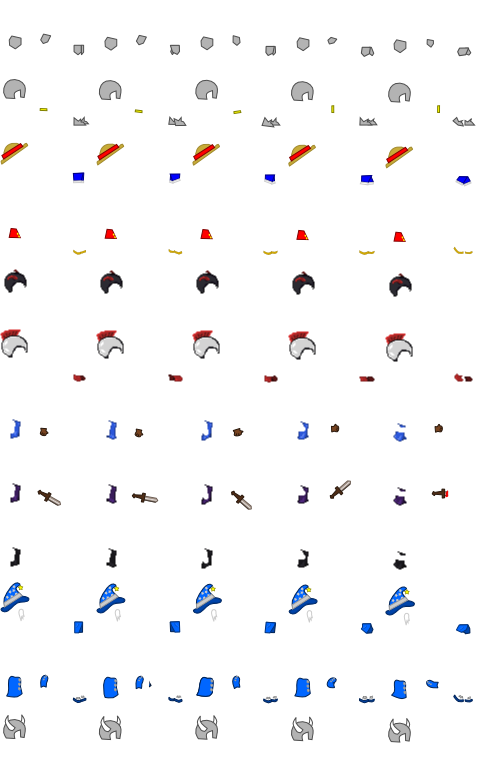
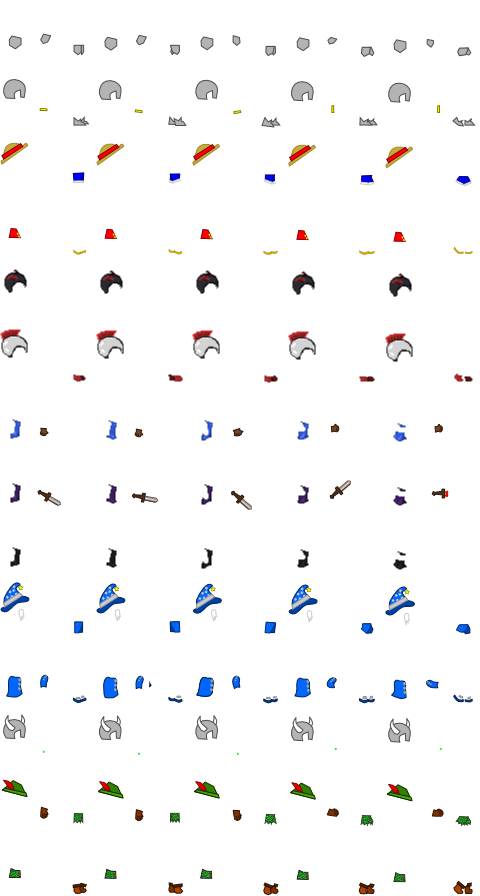
Added a peter pan/robin hood style light armor/green leather armor set into graphics and code.

diff --git a/armor.js b/armor.js
@@ -23,6 +23,12 @@ var equipmentSources = {
     'wizardSleeves': equipmentSource(arm, 10),
     'wizardPants': equipmentSource(legs, 9),
     'wizardSandals': equipmentSource(feet, 10),
+    // Peter Pan
+    'featherCap': equipmentSource(head, 12),
+    'leatherVest': equipmentSource(body, 13),
+    'leatherLongGloves': equipmentSource(arm, 12),
+    'leatherPants': equipmentSource(legs, 12),
+    'leatherBoots': equipmentSource(feet, 13),
     // Robes
     'blueRobe': equipmentSource(body, 6),
     'purpleRobe': equipmentSource(body, 7),
@@ -56,18 +62,18 @@ addItem(69, {'slot': 'head', 'type': 'heavyArmor', 'name': 'Orichalcum Great Hel
 
 //Light Helmets gives armor and evasion
 //addItem(1, {'slot': 'head', 'type': 'lightArmor', 'name': 'Rotten Bucket', 'bonuses': {'+armor': 1, '+evasion': 3}, 'offset': 10, icon: 'featherHat'});
-addItem(4, {'slot': 'head', 'type': 'lightArmor', 'name': 'Leather Cap', 'bonuses': {'+armor': 7, '+evasion': 13}, 'offset': 10, icon: 'featherHat'});
-addItem(8, {'slot': 'head', 'type': 'lightArmor', 'name': 'Hide Cap', 'bonuses': {'+armor': 13, '+evasion': 23}, 'offset': 10, icon: 'featherHat'});
-addItem(13, {'slot': 'head', 'type': 'lightArmor', 'name': 'Leather Helmet', 'bonuses': {'+armor': 19, '+evasion': 33}, 'offset': 10, icon: 'featherHat'});
-addItem(18, {'slot': 'head', 'type': 'lightArmor', 'name': 'Studded Helmet', 'bonuses': {'+armor': 25, '+evasion': 43}, 'offset': 10, icon: 'featherHat'});
-addItem(23, {'slot': 'head', 'type': 'lightArmor', 'name': 'Hide Helmet', 'bonuses': {'+armor': 31, '+evasion': 53}, 'offset': 10, icon: 'featherHat'});
-addItem(28, {'slot': 'head', 'type': 'lightArmor', 'name': 'Shell Helmet', 'bonuses': {'+armor': 37, '+evasion': 63}, 'offset': 10, icon: 'featherHat'});
-addItem(33, {'slot': 'head', 'type': 'lightArmor', 'name': 'Leather Hood', 'bonuses': {'+armor': 43, '+evasion': 73}, 'offset': 10, icon: 'featherHat'});
-addItem(38, {'slot': 'head', 'type': 'lightArmor', 'name': 'Horned Helmet', 'bonuses': {'+armor': 49, '+evasion': 83}, 'offset': 10, icon: 'featherHat'});
-addItem(43, {'slot': 'head', 'type': 'lightArmor', 'name': 'Scale Helmet', 'bonuses': {'+armor': 55, '+evasion': 93}, 'offset': 10, icon: 'featherHat'});
-addItem(48, {'slot': 'head', 'type': 'lightArmor', 'name': 'Composite Helmet', 'bonuses': {'+armor': 61, '+evasion': 103}, 'offset': 10, icon: 'featherHat'});
-addItem(58, {'slot': 'head', 'type': 'lightArmor', 'name': 'Runed Helmet', 'bonuses': {'+armor': 70, '+evasion': 110, '+maxHealth': 35, '+block': 5, '+magicBlock': 5}, 'offset': 10, icon: 'featherHat'});
-addItem(68, {'slot': 'head', 'type': 'lightArmor', 'name': 'Dragon Helmet', 'bonuses': {'+armor': 80, '+evasion': 120, '+maxHealth': 100, '+block': 10, '+magicBlock': 10}, 'offset': 10, icon: 'featherHat'});
+addItem(4, {'slot': 'head', 'type': 'lightArmor', 'name': 'Leather Cap', 'bonuses': {'+armor': 7, '+evasion': 13}, 'source': equipmentSources.featherCap, icon: 'featherHat'});
+addItem(8, {'slot': 'head', 'type': 'lightArmor', 'name': 'Hide Cap', 'bonuses': {'+armor': 13, '+evasion': 23}, 'source': equipmentSources.featherCap, icon: 'featherHat'});
+addItem(13, {'slot': 'head', 'type': 'lightArmor', 'name': 'Leather Helmet', 'bonuses': {'+armor': 19, '+evasion': 33}, 'source': equipmentSources.featherCap, icon: 'featherHat'});
+addItem(18, {'slot': 'head', 'type': 'lightArmor', 'name': 'Studded Helmet', 'bonuses': {'+armor': 25, '+evasion': 43}, 'source': equipmentSources.featherCap, icon: 'featherHat'});
+addItem(23, {'slot': 'head', 'type': 'lightArmor', 'name': 'Hide Helmet', 'bonuses': {'+armor': 31, '+evasion': 53}, 'source': equipmentSources.featherCap, icon: 'featherHat'});
+addItem(28, {'slot': 'head', 'type': 'lightArmor', 'name': 'Shell Helmet', 'bonuses': {'+armor': 37, '+evasion': 63}, 'source': equipmentSources.featherCap, icon: 'featherHat'});
+addItem(33, {'slot': 'head', 'type': 'lightArmor', 'name': 'Leather Hood', 'bonuses': {'+armor': 43, '+evasion': 73}, 'source': equipmentSources.featherCap, icon: 'featherHat'});
+addItem(38, {'slot': 'head', 'type': 'lightArmor', 'name': 'Horned Helmet', 'bonuses': {'+armor': 49, '+evasion': 83}, 'source': equipmentSources.featherCap, icon: 'featherHat'});
+addItem(43, {'slot': 'head', 'type': 'lightArmor', 'name': 'Scale Helmet', 'bonuses': {'+armor': 55, '+evasion': 93}, 'source': equipmentSources.featherCap, icon: 'featherHat'});
+addItem(48, {'slot': 'head', 'type': 'lightArmor', 'name': 'Composite Helmet', 'bonuses': {'+armor': 61, '+evasion': 103}, 'source': equipmentSources.featherCap, icon: 'featherHat'});
+addItem(58, {'slot': 'head', 'type': 'lightArmor', 'name': 'Runed Helmet', 'bonuses': {'+armor': 70, '+evasion': 110, '+maxHealth': 35, '+block': 5, '+magicBlock': 5}, 'source': equipmentSources.featherCap, icon: 'featherHat'});
+addItem(68, {'slot': 'head', 'type': 'lightArmor', 'name': 'Dragon Helmet', 'bonuses': {'+armor': 80, '+evasion': 120, '+maxHealth': 100, '+block': 10, '+magicBlock': 10}, 'source': equipmentSources.featherCap, icon: 'featherHat'});
 
 //Hoods gives block and magic block
 addItem(1, {'slot': 'head', 'type': 'clothArmor', 'name': 'Straw Hat', 'bonuses': {'+block': 2, '+magicBlock': 1}, 'source': equipmentSources.strawHat, 'hideHair': true, icon: 'mageHat'});
@@ -100,19 +106,19 @@ addItem(63, {'slot': 'body', 'type': 'heavyArmor', 'name': 'Adamantium Plate', '
 addItem(73, {'slot': 'body', 'type': 'heavyArmor', 'name': 'Orichalcum Plate', 'bonuses': {'+armor': 120, '+maxHealth': 700, '+evasion': 20, '+block': 20, '+magicBlock': 20}, 'source': equipmentSources.heavyArmor, icon: 'heavyArmor'});
 
 //Light Armor gives armor and evasion
-addItem(2, {'slot': 'body', 'type': 'lightArmor', 'name': 'Cloth Tunic', 'bonuses': {'+armor': 2, '+evasion': 4}, 'offset': 3, icon: 'lightArmor'});
-addItem(7, {'slot': 'body', 'type': 'lightArmor', 'name': 'Leather Tunic', 'bonuses': {'+armor': 7, '+evasion': 19}, 'offset': 3, icon: 'lightArmor'});
-addItem(12, {'slot': 'body', 'type': 'lightArmor', 'name': 'Hide Tunic', 'bonuses': {'+armor': 12, '+evasion': 34}, 'offset': 3, icon: 'lightArmor'});
-addItem(17, {'slot': 'body', 'type': 'lightArmor', 'name': 'Leather Armor', 'bonuses': {'+armor': 17, '+evasion': 49}, 'offset': 3, icon: 'lightArmor'});
-addItem(22, {'slot': 'body', 'type': 'lightArmor', 'name': 'Studded Armor', 'bonuses': {'+armor': 22, '+evasion': 64}, 'offset': 3, icon: 'lightArmor'});
-addItem(27, {'slot': 'body', 'type': 'lightArmor', 'name': 'Hide Armor', 'bonuses': {'+armor': 27, '+evasion': 79}, 'offset': 3, icon: 'lightArmor'});
-addItem(32, {'slot': 'body', 'type': 'lightArmor', 'name': 'Carapace Armor', 'bonuses': {'+armor': 32, '+evasion': 94}, 'offset': 3, icon: 'lightArmor'});
-addItem(37, {'slot': 'body', 'type': 'lightArmor', 'name': 'Treated Armor', 'bonuses': {'+armor': 37, '+evasion': 109}, 'offset': 3, icon: 'lightArmor'});
-addItem(42, {'slot': 'body', 'type': 'lightArmor', 'name': 'Splint Armor', 'bonuses': {'+armor': 42, '+evasion': 124}, 'offset': 3, icon: 'lightArmor'});
-addItem(47, {'slot': 'body', 'type': 'lightArmor', 'name': 'Scale Armor', 'bonuses': {'+armor': 47, '+evasion': 139}, 'offset': 3, icon: 'lightArmor'});
-addItem(52, {'slot': 'body', 'type': 'lightArmor', 'name': 'Composite Armor', 'bonuses': {'+armor': 52, '+evasion': 154}, 'offset': 3, icon: 'lightArmor'});
-addItem(62, {'slot': 'body', 'type': 'lightArmor', 'name': 'Runed Armor', 'bonuses': {'+armor': 55, '+evasion': 155, '+maxHealth': 60, '+block': 10, '+magicBlock': 10}, 'offset': 3, icon: 'lightArmor'});
-addItem(72, {'slot': 'body', 'type': 'lightArmor', 'name': 'Dragon Armor', 'bonuses': {'+armor': 70, '+evasion': 170, '+maxHealth': 200, '+block': 20, '+magicBlock': 20}, 'offset': 3, icon: 'lightArmor'});
+addItem(2, {'slot': 'body', 'type': 'lightArmor', 'name': 'Cloth Tunic', 'bonuses': {'+armor': 2, '+evasion': 4}, 'source': equipmentSources.leatherVest, icon: 'lightArmor'});
+addItem(7, {'slot': 'body', 'type': 'lightArmor', 'name': 'Leather Tunic', 'bonuses': {'+armor': 7, '+evasion': 19}, 'source': equipmentSources.leatherVest, icon: 'lightArmor'});
+addItem(12, {'slot': 'body', 'type': 'lightArmor', 'name': 'Hide Tunic', 'bonuses': {'+armor': 12, '+evasion': 34}, 'source': equipmentSources.leatherVest, icon: 'lightArmor'});
+addItem(17, {'slot': 'body', 'type': 'lightArmor', 'name': 'Leather Armor', 'bonuses': {'+armor': 17, '+evasion': 49}, 'source': equipmentSources.leatherVest, icon: 'lightArmor'});
+addItem(22, {'slot': 'body', 'type': 'lightArmor', 'name': 'Studded Armor', 'bonuses': {'+armor': 22, '+evasion': 64}, 'source': equipmentSources.leatherVest, icon: 'lightArmor'});
+addItem(27, {'slot': 'body', 'type': 'lightArmor', 'name': 'Hide Armor', 'bonuses': {'+armor': 27, '+evasion': 79}, 'source': equipmentSources.leatherVest, icon: 'lightArmor'});
+addItem(32, {'slot': 'body', 'type': 'lightArmor', 'name': 'Carapace Armor', 'bonuses': {'+armor': 32, '+evasion': 94}, 'source': equipmentSources.leatherVest, icon: 'lightArmor'});
+addItem(37, {'slot': 'body', 'type': 'lightArmor', 'name': 'Treated Armor', 'bonuses': {'+armor': 37, '+evasion': 109}, 'source': equipmentSources.leatherVest, icon: 'lightArmor'});
+addItem(42, {'slot': 'body', 'type': 'lightArmor', 'name': 'Splint Armor', 'bonuses': {'+armor': 42, '+evasion': 124}, 'source': equipmentSources.leatherVest, icon: 'lightArmor'});
+addItem(47, {'slot': 'body', 'type': 'lightArmor', 'name': 'Scale Armor', 'bonuses': {'+armor': 47, '+evasion': 139}, 'source': equipmentSources.leatherVest, icon: 'lightArmor'});
+addItem(52, {'slot': 'body', 'type': 'lightArmor', 'name': 'Composite Armor', 'bonuses': {'+armor': 52, '+evasion': 154}, 'source': equipmentSources.leatherVest, icon: 'lightArmor'});
+addItem(62, {'slot': 'body', 'type': 'lightArmor', 'name': 'Runed Armor', 'bonuses': {'+armor': 55, '+evasion': 155, '+maxHealth': 60, '+block': 10, '+magicBlock': 10}, 'source': equipmentSources.leatherVest, icon: 'lightArmor'});
+addItem(72, {'slot': 'body', 'type': 'lightArmor', 'name': 'Dragon Armor', 'bonuses': {'+armor': 70, '+evasion': 170, '+maxHealth': 200, '+block': 20, '+magicBlock': 20}, 'source': equipmentSources.leatherVest, icon: 'lightArmor'});
 
 // Cloth Armor gives armor, block and magic block
 addItem(1, {'slot': 'body', 'type': 'clothArmor', 'name': 'Wool Shirt', 'bonuses': {'+armor': 2, '+block': 4, '+magicBlock': 2}, 'source': equipmentSources.vest, icon: 'clothArmor'});
@@ -146,18 +152,18 @@ addItem(70, {'slot': 'arms', 'type': 'heavyArmor', 'name': 'Orichalcum Vambracer
 
 //Bracers gives armor and evasion
 //addItem(1, {'slot': 'arms', 'type': 'lightArmor', 'name': 'Rotting Bracelets', 'bonuses': {'+armor': 1, '+evasion': 3}, icon: 'bracers'});
-addItem(4, {'slot': 'arms', 'type': 'lightArmor', 'name': 'Leather Bracelets', 'bonuses': {'+armor': 7, '+evasion': 13}, icon: 'bracers'});
-addItem(9, {'slot': 'arms', 'type': 'lightArmor', 'name': 'Hide Bracelets', 'bonuses': {'+armor': 13, '+evasion': 23}, icon: 'bracers'});
-addItem(14, {'slot': 'arms', 'type': 'lightArmor', 'name': 'Leather Bracers', 'bonuses': {'+armor': 19, '+evasion': 33}, icon: 'bracers'});
-addItem(19, {'slot': 'arms', 'type': 'lightArmor', 'name': 'Studded Bracers', 'bonuses': {'+armor': 25, '+evasion': 43}, icon: 'bracers'});
-addItem(24, {'slot': 'arms', 'type': 'lightArmor', 'name': 'Hide Bracers', 'bonuses': {'+armor': 31, '+evasion': 53}, icon: 'bracers'});
-addItem(29, {'slot': 'arms', 'type': 'lightArmor', 'name': 'Carapace Bracers', 'bonuses': {'+armor': 37, '+evasion': 63}, icon: 'bracers'});
-addItem(34, {'slot': 'arms', 'type': 'lightArmor', 'name': 'Padded Bracers', 'bonuses': {'+armor': 43, '+evasion': 73}, icon: 'bracers'});
-addItem(39, {'slot': 'arms', 'type': 'lightArmor', 'name': 'Plated Bracers', 'bonuses': {'+armor': 49, '+evasion': 83}, icon: 'bracers'});
-addItem(44, {'slot': 'arms', 'type': 'lightArmor', 'name': 'Scale Bracers', 'bonuses': {'+armor': 55, '+evasion': 93}, icon: 'bracers'});
-addItem(49, {'slot': 'arms', 'type': 'lightArmor', 'name': 'Composite Bracers', 'bonuses': {'+armor': 61, '+evasion': 103}, icon: 'bracers'});
-addItem(59, {'slot': 'arms', 'type': 'lightArmor', 'name': 'Runed Bracers', 'bonuses': {'+armor': 70, '+evasion': 110, '+maxHealth': 35, '+block': 5, '+magicBlock': 5}, icon: 'bracers'});
-addItem(69, {'slot': 'arms', 'type': 'lightArmor', 'name': 'Dragon Bracers', 'bonuses': {'+armor': 80, '+evasion': 120, '+maxHealth': 100, '+block': 10, '+magicBlock': 10}, icon: 'bracers'});
+addItem(4, {'slot': 'arms', 'type': 'lightArmor', 'name': 'Leather Bracelets', 'bonuses': {'+armor': 7, '+evasion': 13}, 'source': equipmentSources.leatherLongGloves, icon: 'bracers'});
+addItem(9, {'slot': 'arms', 'type': 'lightArmor', 'name': 'Hide Bracelets', 'bonuses': {'+armor': 13, '+evasion': 23}, 'source': equipmentSources.leatherLongGloves, icon: 'bracers'});
+addItem(14, {'slot': 'arms', 'type': 'lightArmor', 'name': 'Leather Bracers', 'bonuses': {'+armor': 19, '+evasion': 33}, 'source': equipmentSources.leatherLongGloves, icon: 'bracers'});
+addItem(19, {'slot': 'arms', 'type': 'lightArmor', 'name': 'Studded Bracers', 'bonuses': {'+armor': 25, '+evasion': 43}, 'source': equipmentSources.leatherLongGloves, icon: 'bracers'});
+addItem(24, {'slot': 'arms', 'type': 'lightArmor', 'name': 'Hide Bracers', 'bonuses': {'+armor': 31, '+evasion': 53}, 'source': equipmentSources.leatherLongGloves, icon: 'bracers'});
+addItem(29, {'slot': 'arms', 'type': 'lightArmor', 'name': 'Carapace Bracers', 'bonuses': {'+armor': 37, '+evasion': 63}, 'source': equipmentSources.leatherLongGloves, icon: 'bracers'});
+addItem(34, {'slot': 'arms', 'type': 'lightArmor', 'name': 'Padded Bracers', 'bonuses': {'+armor': 43, '+evasion': 73}, 'source': equipmentSources.leatherLongGloves, icon: 'bracers'});
+addItem(39, {'slot': 'arms', 'type': 'lightArmor', 'name': 'Plated Bracers', 'bonuses': {'+armor': 49, '+evasion': 83}, 'source': equipmentSources.leatherLongGloves, icon: 'bracers'});
+addItem(44, {'slot': 'arms', 'type': 'lightArmor', 'name': 'Scale Bracers', 'bonuses': {'+armor': 55, '+evasion': 93}, 'source': equipmentSources.leatherLongGloves, icon: 'bracers'});
+addItem(49, {'slot': 'arms', 'type': 'lightArmor', 'name': 'Composite Bracers', 'bonuses': {'+armor': 61, '+evasion': 103}, 'source': equipmentSources.leatherLongGloves, icon: 'bracers'});
+addItem(59, {'slot': 'arms', 'type': 'lightArmor', 'name': 'Runed Bracers', 'bonuses': {'+armor': 70, '+evasion': 110, '+maxHealth': 35, '+block': 5, '+magicBlock': 5}, 'source': equipmentSources.leatherLongGloves, icon: 'bracers'});
+addItem(69, {'slot': 'arms', 'type': 'lightArmor', 'name': 'Dragon Bracers', 'bonuses': {'+armor': 80, '+evasion': 120, '+maxHealth': 100, '+block': 10, '+magicBlock': 10}, 'source': equipmentSources.leatherLongGloves, icon: 'bracers'});
 
 //Gloves gives block and magic block
 addItem(1, {'slot': 'arms', 'type': 'clothArmor', 'name': 'Torn Mittens', 'bonuses': {'+block': 2, '+magicBlock': 1}, 'source': equipmentSources.leatherGloves, icon: 'gloves'});
@@ -191,18 +197,18 @@ addItem(71, {'slot': 'legs', 'type': 'heavyArmor', 'name': 'Orichalcum Greaves',
 
 //Pants gives evasion and armor
 //addItem(1, {'slot': 'legs', 'type': 'lightArmor', 'name': 'Worn Kilt', 'bonuses': {'+armor': 2, '+evasion': 3}, icon: 'pants'});
-addItem(5, {'slot': 'legs', 'type': 'lightArmor', 'name': 'Leather Kilt', 'bonuses': {'+armor': 10, '+evasion': 13}, icon: 'pants'});
-addItem(10, {'slot': 'legs', 'type': 'lightArmor', 'name': 'Hide Kilt', 'bonuses': {'+armor': 18, '+evasion': 23}, icon: 'pants'});
-addItem(15, {'slot': 'legs', 'type': 'lightArmor', 'name': 'Leather Pants', 'bonuses': {'+armor': 26, '+evasion': 33}, icon: 'pants'});
-addItem(20, {'slot': 'legs', 'type': 'lightArmor', 'name': 'Studded Pants', 'bonuses': {'+armor': 34, '+evasion': 43}, icon: 'pants'});
-addItem(25, {'slot': 'legs', 'type': 'lightArmor', 'name': 'Hide Pants', 'bonuses': {'+armor': 42, '+evasion': 53}, icon: 'pants'});
-addItem(30, {'slot': 'legs', 'type': 'lightArmor', 'name': 'Carapace Pants', 'bonuses': {'+armor': 50, '+evasion': 63}, icon: 'pants'});
-addItem(35, {'slot': 'legs', 'type': 'lightArmor', 'name': 'Padded Pants', 'bonuses': {'+armor': 58, '+evasion': 73}, icon: 'pants'});
-addItem(40, {'slot': 'legs', 'type': 'lightArmor', 'name': 'Plated Pants', 'bonuses': {'+armor': 66, '+evasion': 83}, icon: 'pants'});
-addItem(45, {'slot': 'legs', 'type': 'lightArmor', 'name': 'Scale Pants', 'bonuses': {'+armor': 74, '+evasion': 93}, icon: 'pants'});
+addItem(5, {'slot': 'legs', 'type': 'lightArmor', 'name': 'Leather Kilt', 'bonuses': {'+armor': 10, '+evasion': 13}, 'source': equipmentSources.leatherPants, icon: 'pants'});
+addItem(10, {'slot': 'legs', 'type': 'lightArmor', 'name': 'Hide Kilt', 'bonuses': {'+armor': 18, '+evasion': 23}, 'source': equipmentSources.leatherPants, icon: 'pants'});
+addItem(15, {'slot': 'legs', 'type': 'lightArmor', 'name': 'Leather Pants', 'bonuses': {'+armor': 26, '+evasion': 33}, 'source': equipmentSources.leatherPants, icon: 'pants'});
+addItem(20, {'slot': 'legs', 'type': 'lightArmor', 'name': 'Studded Pants', 'bonuses': {'+armor': 34, '+evasion': 43}, 'source': equipmentSources.leatherPants, icon: 'pants'});
+addItem(25, {'slot': 'legs', 'type': 'lightArmor', 'name': 'Hide Pants', 'bonuses': {'+armor': 42, '+evasion': 53}, 'source': equipmentSources.leatherPants, icon: 'pants'});
+addItem(30, {'slot': 'legs', 'type': 'lightArmor', 'name': 'Carapace Pants', 'bonuses': {'+armor': 50, '+evasion': 63}, 'source': equipmentSources.leatherPants, icon: 'pants'});
+addItem(35, {'slot': 'legs', 'type': 'lightArmor', 'name': 'Padded Pants', 'bonuses': {'+armor': 58, '+evasion': 73}, 'source': equipmentSources.leatherPants, icon: 'pants'});
+addItem(40, {'slot': 'legs', 'type': 'lightArmor', 'name': 'Plated Pants', 'bonuses': {'+armor': 66, '+evasion': 83}, 'source': equipmentSources.leatherPants, icon: 'pants'});
+addItem(45, {'slot': 'legs', 'type': 'lightArmor', 'name': 'Scale Pants', 'bonuses': {'+armor': 74, '+evasion': 93}, 'source': equipmentSources.leatherPants, icon: 'pants'});
 addItem(50, {'slot': 'legs', 'type': 'lightArmor', 'name': 'Composite Pants', 'bonuses': {'+armor': 82, '+evasion': 103}, icon: 'pants'});
-addItem(60, {'slot': 'legs', 'type': 'lightArmor', 'name': 'Runed Pants', 'bonuses': {'+armor': 85, '+evasion': 115, '+maxHealth': 60, '+block': 10, '+magicBlock': 10}, icon: 'pants'});
-addItem(70, {'slot': 'legs', 'type': 'lightArmor', 'name': 'Dragon Pants', 'bonuses': {'+armor': 90, '+evasion': 120, '+maxHealth': 100, '+block': 20, '+magicBlock': 20}, icon: 'pants'});
+addItem(60, {'slot': 'legs', 'type': 'lightArmor', 'name': 'Runed Pants', 'bonuses': {'+armor': 85, '+evasion': 115, '+maxHealth': 60, '+block': 10, '+magicBlock': 10}, 'source': equipmentSources.leatherPants, icon: 'pants'});
+addItem(70, {'slot': 'legs', 'type': 'lightArmor', 'name': 'Dragon Pants', 'bonuses': {'+armor': 90, '+evasion': 120, '+maxHealth': 100, '+block': 20, '+magicBlock': 20}, 'source': equipmentSources.leatherPants, icon: 'pants'});
 
 //Tights gives block and magic block
 addItem(1, {'slot': 'legs', 'type': 'clothArmor', 'name': 'Tattered Shorts', 'bonuses': {'+block': 3, '+magicBlock': 1}, source: equipmentSources.shorts, icon: 'tights'});
@@ -236,12 +242,12 @@ addItem(72, {'slot': 'feet', 'type': 'heavyArmor', 'name': 'Orichalcum Sabatons'
 
 //Boots gives armor and evasion
 //addItem(1, {'slot': 'feet', 'type': 'lightArmor', 'name': 'Worn Shoes', 'bonuses': {'+armor': 1, '+evasion': 2, '-speed': 25}, 'offset': 8, icon: 'boots'});
-addItem(6, {'slot': 'feet', 'type': 'lightArmor', 'name': 'Leather Shoes', 'bonuses': {'+armor': 6, '+evasion': 10, '-speed': 25}, 'source': equipmentSources.redShoes, icon: 'boots'});
-addItem(11, {'slot': 'feet', 'type': 'lightArmor', 'name': 'Hide Shoes', 'bonuses': {'+armor': 11, '+evasion': 18, '-speed': 25}, 'source': equipmentSources.redShoes, icon: 'boots'});
-addItem(16, {'slot': 'feet', 'type': 'lightArmor', 'name': 'Leather Boots', 'bonuses': {'+armor': 16, '+evasion': 26, '-speed': 25}, 'source': equipmentSources.redShoes, icon: 'boots'});
-addItem(21, {'slot': 'feet', 'type': 'lightArmor', 'name': 'Studded Boots', 'bonuses': {'+armor': 21, '+evasion': 34, '-speed': 25}, 'source': equipmentSources.redShoes, icon: 'boots'});
-addItem(26, {'slot': 'feet', 'type': 'lightArmor', 'name': 'Hide Boots', 'bonuses': {'+armor': 26, '+evasion': 42, '-speed': 25}, 'source': equipmentSources.redShoes, icon: 'boots'});
-addItem(31, {'slot': 'feet', 'type': 'lightArmor', 'name': 'Carapace Boots', 'bonuses': {'+armor': 31, '+evasion': 50, '-speed': 25}, 'source': equipmentSources.redShoes, icon: 'boots'});
+addItem(6, {'slot': 'feet', 'type': 'lightArmor', 'name': 'Leather Shoes', 'bonuses': {'+armor': 6, '+evasion': 10, '-speed': 25}, 'source': equipmentSources.leatherBoots, icon: 'boots'});
+addItem(11, {'slot': 'feet', 'type': 'lightArmor', 'name': 'Hide Shoes', 'bonuses': {'+armor': 11, '+evasion': 18, '-speed': 25}, 'source': equipmentSources.leatherBoots, icon: 'boots'});
+addItem(16, {'slot': 'feet', 'type': 'lightArmor', 'name': 'Leather Boots', 'bonuses': {'+armor': 16, '+evasion': 26, '-speed': 25}, 'source': equipmentSources.leatherBoots, icon: 'boots'});
+addItem(21, {'slot': 'feet', 'type': 'lightArmor', 'name': 'Studded Boots', 'bonuses': {'+armor': 21, '+evasion': 34, '-speed': 25}, 'source': equipmentSources.leatherBoots, icon: 'boots'});
+addItem(26, {'slot': 'feet', 'type': 'lightArmor', 'name': 'Hide Boots', 'bonuses': {'+armor': 26, '+evasion': 42, '-speed': 25}, 'source': equipmentSources.leatherBoots, icon: 'boots'});
+addItem(31, {'slot': 'feet', 'type': 'lightArmor', 'name': 'Carapace Boots', 'bonuses': {'+armor': 31, '+evasion': 50, '-speed': 25}, 'source': equipmentSources.leatherBoots, icon: 'boots'});
 addItem(36, {'slot': 'feet', 'type': 'lightArmor', 'name': 'Padded Boots', 'bonuses': {'+armor': 36, '+evasion': 58, '-speed': 25}, 'source': equipmentSources.redShoes, icon: 'boots'});
 addItem(41, {'slot': 'feet', 'type': 'lightArmor', 'name': 'Plated Boots', 'bonuses': {'+armor': 41, '+evasion': 66, '-speed': 25}, 'source': equipmentSources.redShoes, icon: 'boots'});
 addItem(46, {'slot': 'feet', 'type': 'lightArmor', 'name': 'Scale Boots', 'bonuses': {'+armor': 46, '+evasion': 74, '-speed': 25}, 'source': equipmentSources.redShoes, icon: 'boots'});
